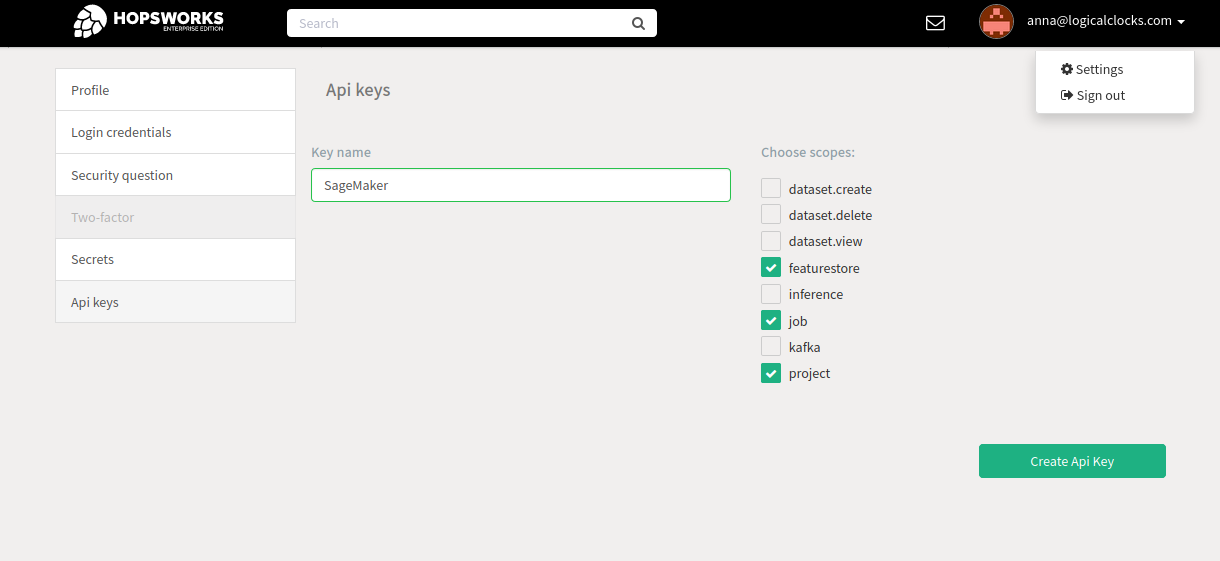
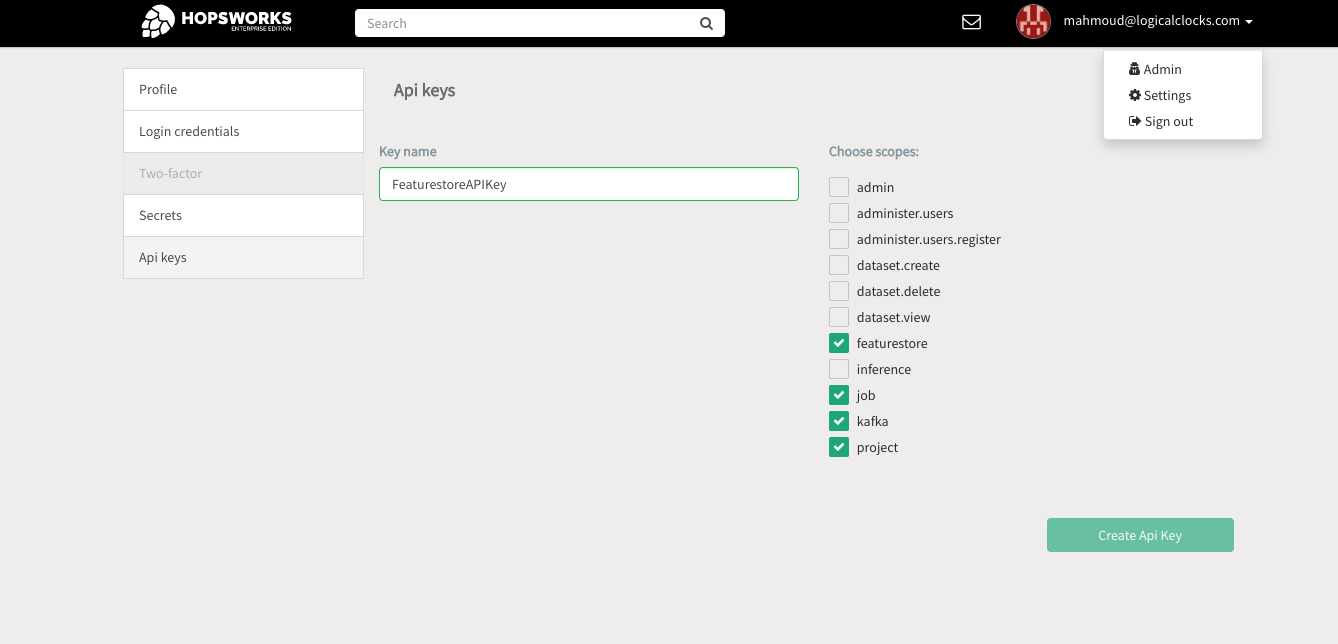
[DOCS] Fixes for databricks integration documentation

diff --git a/docs/integrations/databricks/api_key.md b/docs/integrations/databricks/api_key.md
@@ -12,6 +12,7 @@ In Hopsworks, click on your *username* in the top-right corner and select *Setti
     1. featurestore
     2. project
     3. job
+    4. kafka
 
 <p align="center">
   <figure>
@@ -43,13 +44,26 @@ In Hopsworks, click on your *username* in the top-right corner and select *Setti
 
 ### AWS
 
-#### Option 1: Using the AWS Systems Manager Parameter Store
+#### Step 1: Create an instance profile to attach to your Databricks clusters
 
-**Store the API key in the AWS Systems Manager Parameter Store**
+Go to the *AWS IAM* choose *Roles* and click on *Create Role*. Select *AWS Service* as the type of trusted entity and *EC2* as the use case as shown below:
+
+<p align="center">
+  <figure>
+    <img src="../../../assets/images/create-instance-profile.png" alt="Create an instance profile">
+    <figcaption>Create an instance profile</figcaption>
+  </figure>
+</p>
+
+Click on *Next: Permissions*, *Next:Tags*, and then *Next: Review*. Name the instance profile role and then click *Create role*.
+
+#### Step 2: Storing the API Key
+
+**Option 1: Using the AWS Systems Manager Parameter Store**
 
 In the AWS Management Console, ensure that your active region is the region you use for Databricks.
 Go to the *AWS Systems Manager* choose *Parameter Store* and select *Create Parameter*.
-As name enter `/hopsworks/role/[MY_DATABRICKS_ROLE]/type/api-key` replacing `[MY_DATABRICKS_ROLE]` with the AWS role used by the Databricks cluster that should access the Feature Store. Select *Secure String* as type and create the parameter.
+As name enter `/hopsworks/role/[MY_DATABRICKS_ROLE]/type/api-key` replacing `[MY_DATABRICKS_ROLE]` with the name of the AWS role you have created in [Step 1](#step-1-create-an-instance-profile-to-attach-to-your-databricks-clusters). Select *Secure String* as type and create the parameter.
 
 <p align="center">
   <figure>
@@ -60,9 +74,9 @@ As name enter `/hopsworks/role/[MY_DATABRICKS_ROLE]/type/api-key` replacing `[MY
   </figure>
 </p>
 
-**Grant access to the secret to the Databricks notebook role**
 
-In the AWS Management Console, go to *IAM*, select *Roles* and then the role that is used when creating Databricks clusters.
+Once the API Key is stored, you need to grant access to it from the AWS role that you have created in [Step 1](#step-1-create-an-instance-profile-to-attach-to-your-databricks-clusters).
+In the AWS Management Console, go to *IAM*, select *Roles* and then search for the role that you have created in [Step 1](#step-1-create-an-instance-profile-to-attach-to-your-databricks-clusters).
 Select *Add inline policy*. Choose *Systems Manager* as service, expand the *Read* access level and check *GetParameter*.
 Expand Resources and select *Add ARN*.
 Enter the region of the *Systems Manager* as well as the name of the parameter **WITHOUT the leading slash** e.g. *hopsworks/role/[MY_DATABRICKS_ROLE]/type/api-key* and click *Add*.
@@ -77,9 +91,8 @@ Click on *Review*, give the policy a name und click on *Create policy*.
   </figure>
 </p>
 
-#### Option 2: Using the AWS Secrets Manager
 
-**Store the API key in the AWS Secrets Manager**
+**Option 2: Using the AWS Secrets Manager**
 
 In the AWS management console ensure that your active region is the region you use for Databricks.
 Go to the *AWS Secrets Manager* and select *Store new secret*. Select *Other type of secrets* and add *api-key*
@@ -94,8 +107,7 @@ as the key and paste the API key created in the previous step as the value. Clic
   </figure>
 </p>
 
-As secret name, enter *hopsworks/role/[MY_DATABRICKS_ROLE]* replacing [MY_DATABRICKS_ROLE] with the AWS role used
-by the Databricks instance that should access the Feature Store. Select next twice and finally store the secret.
+As secret name, enter *hopsworks/role/[MY_DATABRICKS_ROLE]* replacing [MY_DATABRICKS_ROLE] with the AWS role you have created in [Step 1](#step-1-create-an-instance-profile-to-attach-to-your-databricks-clusters). sSelect next twice and finally store the secret.
 Then click on the secret in the secrets list and take note of the *Secret ARN*.
 
 <p align="center">
@@ -107,9 +119,8 @@ Then click on the secret in the secrets list and take note of the *Secret ARN*.
   </figure>
 </p>
 
-**Grant access to the secret to the Databricks notebook role**
-
-In the AWS Management Console, go to *IAM*, select *Roles* and then the role that is used when creating Databricks clusters.
+Once the API Key is stored, you need to grant access to it from the AWS role that you have created in [Step 1](#step-1-create-an-instance-profile-to-attach-to-your-databricks-clusters).
+In the AWS Management Console, go to *IAM*, select *Roles* and then the role that that you have created in [Step 1](#step-1-create-an-instance-profile-to-attach-to-your-databricks-clusters).
 Select *Add inline policy*. Choose *Secrets Manager* as service, expand the *Read* access level and check *GetSecretValue*.
 Expand Resources and select *Add ARN*. Paste the ARN of the secret created in the previous step.
 Click on *Review*, give the policy a name und click on *Create policy*.
@@ -122,6 +133,27 @@ Click on *Review*, give the policy a name und click on *Create policy*.
     <figcaption>Configuring the access policy for the Secrets Manager</figcaption>
   </figure>
 </p>
+
+#### Step 3: Allow Databricks to use the AWS role created in Step 1
+
+First you need to get the AWS role used by Databricks for deployments as described in [this step](https://docs.databricks.com/administration-guide/cloud-configurations/aws/instance-profiles.html#step-3-note-the-iam-role-used-to-create-the-databricks-deployment). Once you get the role name, go to *AWS IAM*, search for the role, and click on it. Then, select the *Permissions* tab, click on *Add inline policy*, select the *JSON* tab, and paste the following snippet. Replace *[ACCOUNT_ID]* with your AWS account id, and *[MY_DATABRICKS_ROLE]* with the AWS role name created in [Step 1](#step-1-create-an-instance-profile-to-attach-to-your-databricks-clusters).
+
+```json
+{
+    "Version": "2012-10-17",
+    "Statement": [
+        {
+            "Sid": "PassRole",
+            "Effect": "Allow",
+            "Action": "iam:PassRole",
+            "Resource": "arn:aws:iam::[ACCOUNT_ID]:role/[MY_DATABRICKS_ROLE]"
+        }
+    ]
+}
+```
+
+Click *Review Policy*, name the policy, and click *Create Policy*. Then, go to your Databricks workspace and follow [this step](https://docs.databricks.com/administration-guide/cloud-configurations/aws/instance-profiles.html#step-5-add-the-instance-profile-to-databricks) to add the instance profile to your workspace. Finally, when launching Databricks clusters, select *Advanced* settings and choose the instance profile you have just added.
+
 
 ### Azure
 

diff --git a/docs/integrations/databricks/networking.md b/docs/integrations/databricks/networking.md
@@ -51,9 +51,9 @@ Follow the guide [VPC Peering](https://docs.databricks.com/administration-guide/
 The Feature Store *Security Group* needs to be configured to allow traffic from your Databricks clusters to be able to connect to the Feature Store.
 
 !!! note "Hopsworks.ai"
-    If you deployed your Hopsworks Feature Store with Hopsworks.ai, you only need to enable [outside access of the Feature Store services](../../../hopsworksai/services/#outside-access-to-the-feature-store).
+    If you deployed your Hopsworks Feature Store with Hopsworks.ai, you only need to enable [outside access of the Feature Store, Online Feature Store, and Kafka services](../../../hopsworksai/services/#outside-access-to-the-feature-store).
 
-Open your feature store instance under EC2 in the AWS Management Console and ensure that ports *443*, *3306*, *9083*, *9085*, *8020* and *30010* are reachable from the Databricks Security Group:
+Open your feature store instance under EC2 in the AWS Management Console and ensure that ports *443*, *3306*, *9083*, *9085*, *8020*, *50010*, and *9092* are reachable from the Databricks Security Group:
 
 <p align="center">
   <figure>
@@ -210,12 +210,12 @@ Wait for the peering to show up as *Connected*. There should now be bi-direction
 
 ### Step 2: Configure the Network Security Group
 
-The *Network Security Group* of the Feature Store on Azure needs to be configured to allow traffic from your Databricks clusters to be able to connect to the Feature Store.
+The virtual network peering will allow full access between the Hopsworks virtual network and the Databricks virtual network by default. However, if you have a different setup, ensure that the *Network Security Group* of the Feature Store on Azure is configured to allow traffic from your Databricks clusters to be able to connect to the Feature Store.
 
-Ensure that ports *443*, *9083*, *9085*, *8020* and *50010* are reachable from the Databricks cluster *Network Security Group*.
+Ensure that ports *443*, *9083*, *9085*, *8020*, *50010*, and *9092* are reachable from the Databricks cluster *Network Security Group*.
 
 !!! note "Hopsworks.ai"
-    If you deployed your Hopsworks Feature Store instance with Hopsworks.ai, it suffices to enable [outside access of the Feature Store and Online Feature Store services](../../../hopsworksai/services/#outside-access-to-the-feature-store).
+    If you deployed your Hopsworks Feature Store instance with Hopsworks.ai, it suffices to enable [outside access of the Feature Store, Online Feature Store, and Kafka services](../../../hopsworksai/services/#outside-access-to-the-feature-store).
 
 ## Next Steps
 
